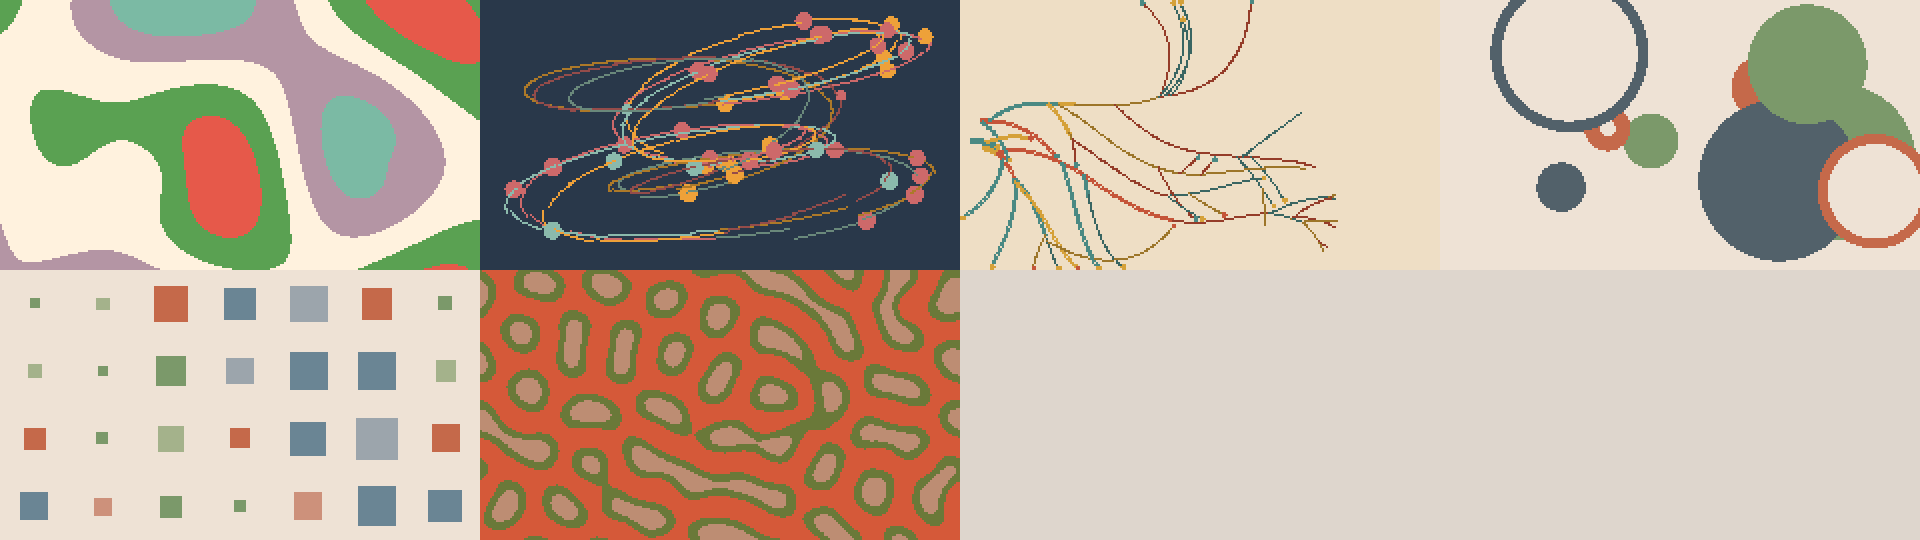
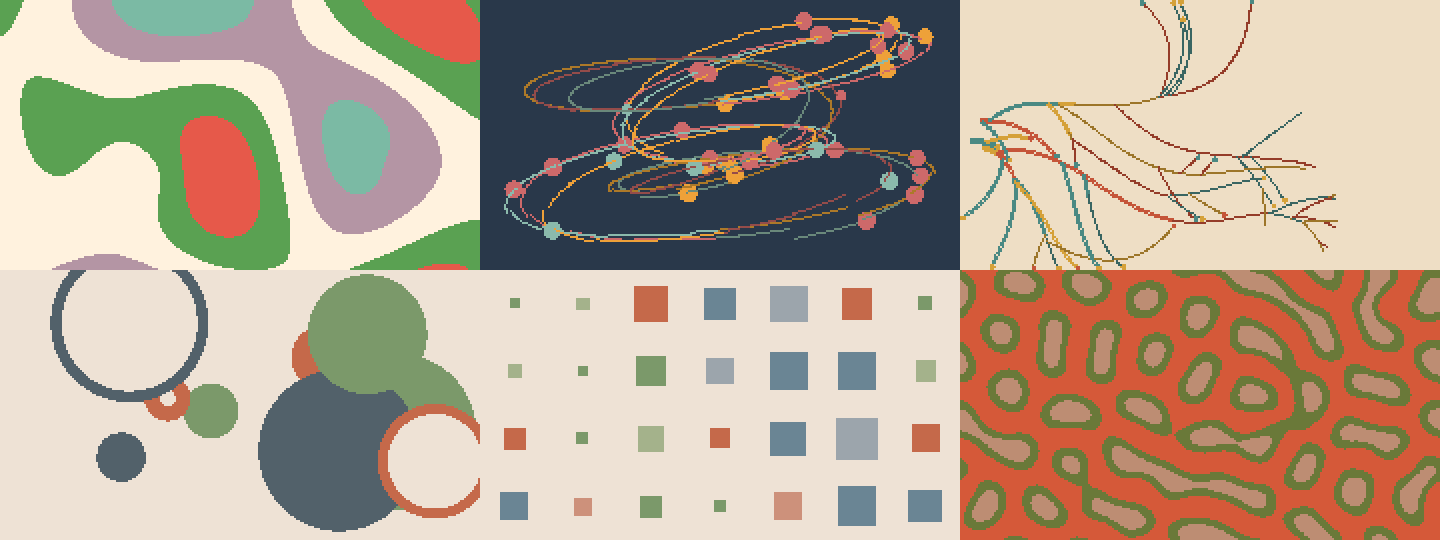
Refresh Synth screenshots from the current six visual families

diff --git a/tools/gallery.cpp b/tools/gallery.cpp
@@ -3,7 +3,6 @@
 #include "../src/Garden.h"
 #include "../src/Light.h"
 #include <array>
-#include <array>
 #include <cstdlib>
 #include <fstream>
 #include <memory>
@@ -11,7 +10,7 @@
 // Six actual renderer frames, arranged into a two-row contact sheet at 2x.
 int main(int argc,char** argv) {
   if(argc!=2) return 1;
-  constexpr unsigned width=960,height=270;
+  constexpr unsigned width=720,height=270;
   // The families do not arrive at the same rate: trails and growth need time
   // on the clock before there is anything to photograph, while the field
   // families are complete on their first frame. These are settled moments,
@@ -40,7 +39,7 @@ int main(int argc,char** argv) {
       painting->render(1.0f/12,energy/(512*5*8000.0f),note,weight);
     }
     for(unsigned y=0;y<135;++y) for(unsigned x=0;x<240;++x)
-      (*pixels)[(y+(slot/4)*135)*width+x+(slot%4)*240]=painting->pixels()[y*240+x];
+      (*pixels)[(y+(slot/3)*135)*width+x+(slot%3)*240]=painting->pixels()[y*240+x];
   }
   std::ofstream out(argv[1],std::ios::binary);
   out<<"P6\n"<<width*2<<' '<<height*2<<"\n255\n";

diff --git a/README.md b/README.md
@@ -7,12 +7,11 @@ A pocket-sized generative instrument for the **M5Stack StickS3**. Rill Synth com
 The first of the family, and originally just *Rill*. Its siblings are
 [Rill Drums](../rill-drums), [Rill Field](../rill-field) and
 [Rill Mallet](../rill-mallet), which plays the same kind of score on recorded
-instruments rather than synthesized ones. The published repository and the
-M5Burner listing are still called Rill.
+instruments rather than synthesized ones. The M5Burner listing is still called Rill.
 
-<img src="docs/images/rill-scale.jpg" alt="Rill running on a StickS3 beside an AirPod for scale" width="640">
+<img src="docs/images/visuals-study.png" alt="Current Rill Synth visuals: Contour, Pendulum, Growth, Eclipse, Tiles and Reef" width="720">
 
-*Rill on the StickS3, with an AirPod for scale.*
+*Current renderer captures at the device’s 240 × 135 resolution. Top: Contour, Pendulum, Growth. Bottom: Eclipse, Tiles, Reef.*
 
 Rill is an experimental instrument. It needs no Wi-Fi, account, audio files, or cloud service. Its sound has been developed around the StickS3's small built-in speaker.
 
@@ -27,8 +26,6 @@ Rill is an experimental instrument. It needs no Wi-Fi, account, audio files, or 
 
 The data view shows the voice, key, mode, generation number, tempo, delay rhythm, volume and battery estimate. New musical generations also select a new visual. Shake changes only the visual. The gesture uses two acceleration peaks and a short cooldown; a single tilt is not a shake.
 
-<img src="docs/images/rill-data.jpg" alt="Rill data view showing the voice, key, tempo, delay, volume and battery" width="640">
-
 ## What it makes
 
 - **Seven timbres:** Bongo, Bars, Wood, Bells, Wire, Halo and Synth. These combine resonant modes, plucked tones, FM and filtered oscillators; they are interpretations, not exact hardware or acoustic-instrument emulations.
@@ -38,13 +35,17 @@ The data view shows the voice, key, mode, generation number, tempo, delay rhythm
 
 New music fades between generations. Generations are not saved across restarts. Device-to-device ensemble sync is a [design proposal](SYNC-DESIGN.md), not an available feature.
 
-## The six visuals
+## The current visuals
 
-Shake to change the visual; tap the front button to generate new music and a new visual together.
+These are captures from the current `visuals-study` renderer, driven by the Synth engine—not photographs of the device. [Development source](https://github.com/bruceblay/rill-synth/tree/visuals-study). Published firmware releases may show the earlier visual set.
 
-<img src="docs/images/visuals-study.png" alt="Contact sheet of the six visual families" width="720">
-
-*Top row: contour, pendulum, growth, eclipse. Bottom row: tiles, reef. These are frames from the renderer itself, at the same 240x135 the device draws, taken at a settled moment for each family. They are not photographs of the screen; device photos are still to be taken.*
+| Contour | Pendulum |
+| --- | --- |
+| ![Contour](docs/images/current-contour.png) | ![Pendulum](docs/images/current-pendulum.png) |
+| **Growth** | **Eclipse** |
+| ![Growth](docs/images/current-growth.png) | ![Eclipse](docs/images/current-eclipse.png) |
+| **Tiles** | **Reef** |
+| ![Tiles](docs/images/current-tiles.png) | ![Reef](docs/images/current-reef.png) |
 
 - **Contour** — two travelling wave sources and a drifting plane wave sum into a field, and the field is quantised into flat areas of ink and tint, the way a printed contour map is.
 - **Pendulum** — a harmonograph traces a figure slowly enough to follow, in long passes of flat colour, then the page is changed and a different figure begins.

diff --git a/docs/images/README.md b/docs/images/README.md
@@ -1,0 +1,5 @@
+# Screenshot provenance
+
+Captured September 21, 2026 from `src/Light.h` and `src/Garden.h` at source revision `997dd0a` (including the Contour-only hit-response fix). Seed 17; actual engine notes and levels drive the renderer. Native output is 240 × 135; the contact sheet uses nearest-neighbor 2× replication.
+
+The tools are `tools/visual_preview.cpp` and `tools/gallery.cpp` on `visuals-study`. Family/frame pairs: Contour 0/120, Pendulum 1/180, Growth 2/110, Eclipse 3/120, Tiles 5/150, Reef 7/300. Compile with C++17, run to produce PPM, then convert losslessly to PNG. No generated or simulated device photography is used.
